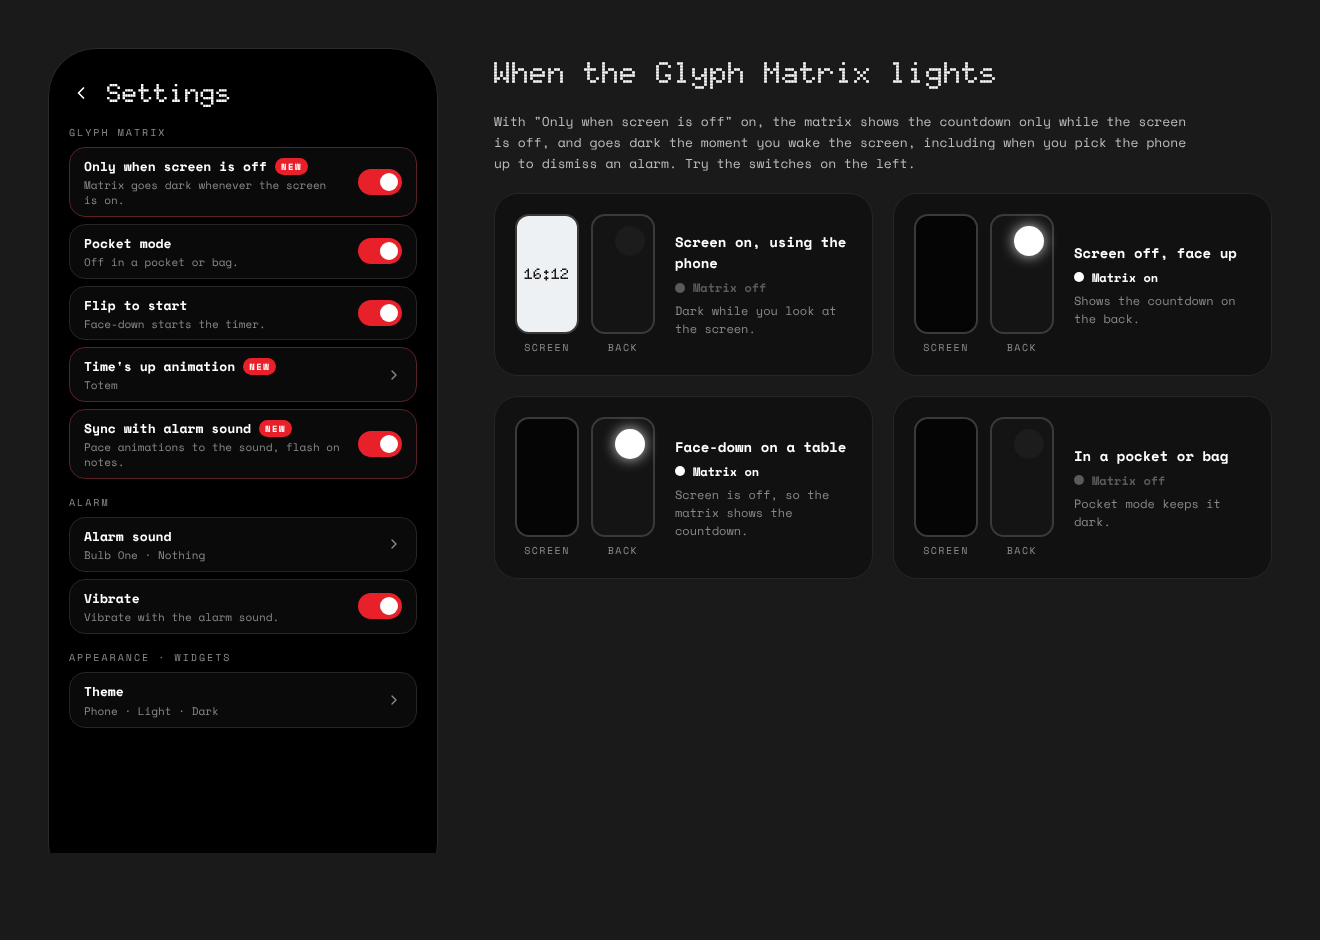
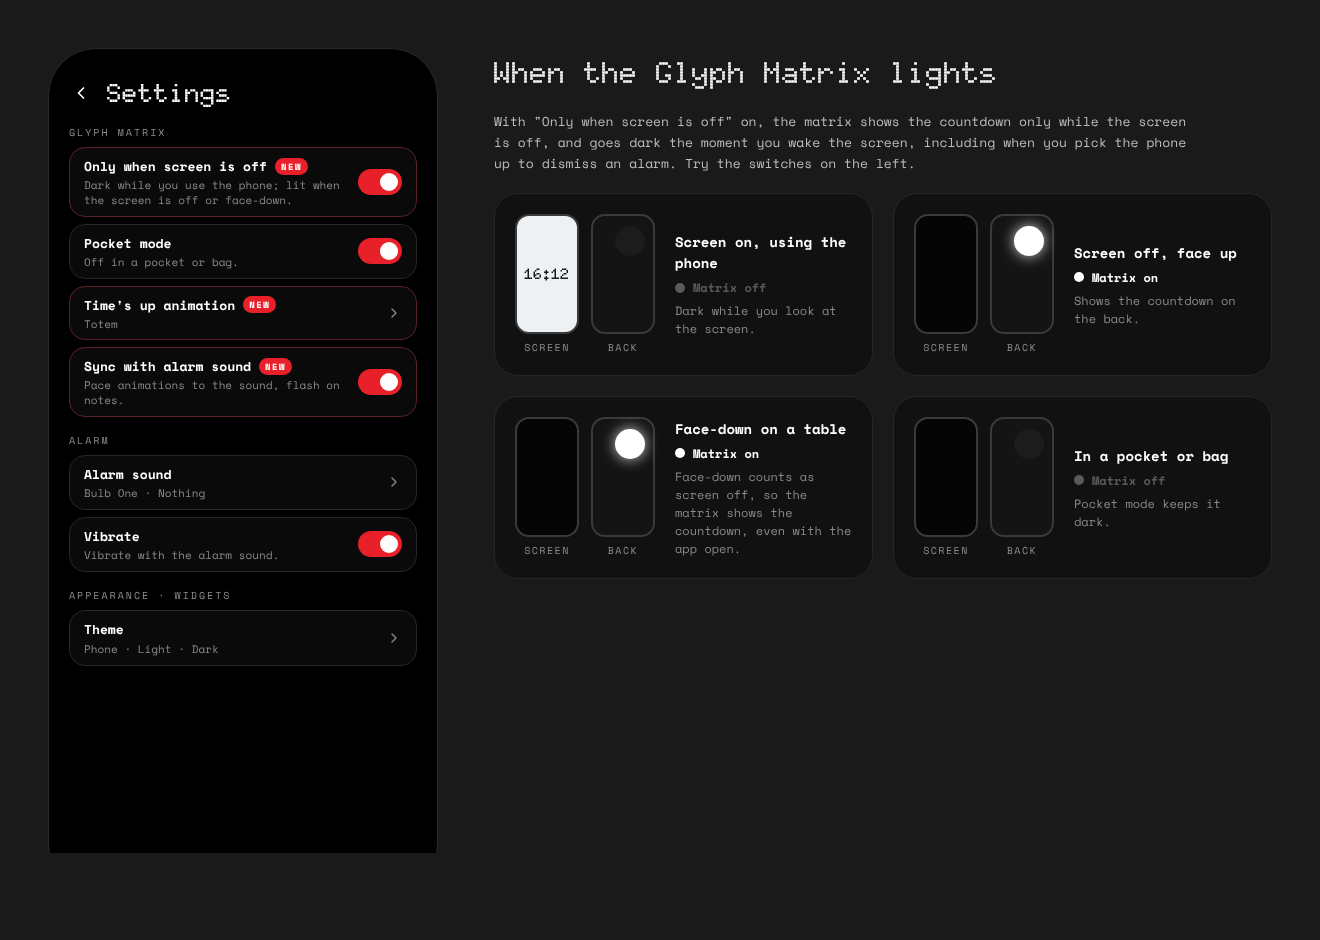
Glyph Countdown 1.2: fix flip to start, blinking sound sync
- Face-down counts as screen off, so "Only when screen is off" no longer
  hides the countdown after flip to start with the app open
- Flip to start is always on again (setting removed)
- Synced animations step through brightness levels on each note: flash,
  two dimmer steps, a dark gap before the next note, varying peaks
- versionCode 3, versionName 1.2; README images, blink GIF, release notes

Claude-Session: https://claude.ai/code/session_01KsCjPjN7msvXaRxsW5Af71

diff --git a/app/src/com/glyphcountdown/app/TimerService.java b/app/src/com/glyphcountdown/app/TimerService.java
@@ -95,8 +95,10 @@ public class TimerService extends Service {
                 near = e.values[0] < Math.min(max, 5f);
             } else {
                 float x = e.values[0], y = e.values[1], z = e.values[2];
-                flatFaceDown = z < -8.5f && Math.abs(x) < 2.5f && Math.abs(y) < 2.5f;
+                boolean fd = z < -8.5f && Math.abs(x) < 2.5f && Math.abs(y) < 2.5f;
+                if (fd != flatFaceDown) { flatFaceDown = fd; pushMatrix(); }
             }
+            if (!Prefs.get(TimerService.this, Prefs.POCKET)) return;
             boolean want = near && !flatFaceDown;
             if (want && !pocketed) {
                 handler.removeCallbacks(enterPocket);
@@ -110,14 +112,15 @@ public class TimerService extends Service {
     };
 
     private void startPocketSensors() {
-        if (sensorsOn || !Prefs.get(this, Prefs.POCKET)) return;
+        if (sensorsOn) return;
         sensors = getSystemService(SensorManager.class);
         Sensor prox = sensors.getDefaultSensor(Sensor.TYPE_PROXIMITY);
         Sensor grav = sensors.getDefaultSensor(Sensor.TYPE_GRAVITY);
         if (grav == null) grav = sensors.getDefaultSensor(Sensor.TYPE_ACCELEROMETER);
-        if (prox == null) return;
-        sensors.registerListener(pocketListener, prox, SensorManager.SENSOR_DELAY_NORMAL);
+        // orientation is always tracked (face-down shows the matrix); proximity only for pocket mode
         if (grav != null) sensors.registerListener(pocketListener, grav, SensorManager.SENSOR_DELAY_NORMAL);
+        if (prox != null && Prefs.get(this, Prefs.POCKET))
+            sensors.registerListener(pocketListener, prox, SensorManager.SENSOR_DELAY_NORMAL);
         sensorsOn = true;
     }
 
@@ -126,6 +129,7 @@ public class TimerService extends Service {
         if (sensorsOn && sensors != null) sensors.unregisterListener(pocketListener);
         sensorsOn = false;
         near = false;
+        flatFaceDown = false;
         pocketed = false;
     }
 
@@ -338,7 +342,9 @@ public class TimerService extends Service {
 
     private int[] matrixFrame() {
         int n = matrixSize;
-        if (pocketed || (screenOn && Prefs.get(this, Prefs.SCREEN_OFF_ONLY))) return new int[n * n];
+        // face-down on a table counts as screen off: nobody can see the screen (flip to start)
+        boolean hidden = screenOn && !flatFaceDown && Prefs.get(this, Prefs.SCREEN_OFF_ONLY);
+        if (pocketed || hidden) return new int[n * n];
         if (st.mode == TimerState.DONE && !MorphEngine.DEFAULT.equals(anim)) return animFrame(n);
         return MatrixRenderer.render(st, n);
     }
@@ -365,8 +371,12 @@ public class TimerService extends Service {
         }
         if (phase < 0) phase = ((SystemClock.elapsedRealtime() - doneAt) % (long) natural) / natural;
         int[] bits = MorphEngine.frame(anim, n, phase);
-        int lit = sync ? (int) (2600 + (4095 - 2600) * accent) : 4095;
-        int spark = (int) (4095 * accent);
+        int lit = 4095, spark = 0;
+        if (sync) {
+            int pos = Math.max(0, lastPos);
+            lit = (int) Math.round(4095 * SoundSync.level(prof.onsetsMs, pos, prof.lengthMs));
+            spark = lit;
+        }
         int[] px = new int[n * n];
         for (int r = 0; r < n; r++) {
             for (int c = 0; c < n; c++) {

diff --git a/app/src/com/glyphcountdown/app/SoundSync.java b/app/src/com/glyphcountdown/app/SoundSync.java
@@ -74,6 +74,29 @@ final class SoundSync {
         return best;
     }
 
+    private static final double[] PEAKS = {1.0, 0.7, 0.9, 0.55};
+    private static final double FLOOR = 0.2, GAP = 0.04;
+
+    /**
+     * Brightness 0..1 at {@code posMs} into one play of the sound, stepping through dimness
+     * levels so the matrix blinks with the notes: a short dark gap just before each note, a flash
+     * at that note's peak (peaks vary from note to note), then two dimmer steps down to a low glow.
+     */
+    static double level(long[] onsets, long posMs, long lengthMs) {
+        if (onsets.length == 0) return 1;
+        int i = -1;
+        for (int k = 0; k < onsets.length && onsets[k] <= posMs; k++) i = k;
+        long next = i + 1 < onsets.length ? onsets[i + 1] : onsets[0] + lengthMs;
+        long dt = i >= 0 ? posMs - onsets[i] : Long.MAX_VALUE;
+        if (dt >= 80 && next - posMs <= 70) return GAP;
+        if (i < 0) return FLOOR;
+        double peak = PEAKS[i % PEAKS.length];
+        if (dt < 80) return peak;
+        if (dt < 160) return peak * 0.6;
+        if (dt < 260) return peak * 0.35;
+        return FLOOR;
+    }
+
     /** Note starts from a 10 ms loudness envelope: a sharp rise well above the recent level. */
     static long[] onsets(float[] env) {
         float max = 0;

diff --git a/app/src/com/glyphcountdown/app/MainActivity.java b/app/src/com/glyphcountdown/app/MainActivity.java
@@ -277,7 +277,7 @@ public class MainActivity extends Activity implements TimerState.Listener, DialV
         boolean done = mode == TimerState.DONE;
         primary.setBackground(pill(done ? RED : WHITE, 0));
         primary.setTextColor(done ? 0xFFFFFFFF : BLACK);
-        hint.setVisibility(setting && Prefs.get(this, Prefs.FLIP) ? View.VISIBLE : View.INVISIBLE);
+        hint.setVisibility(setting ? View.VISIBLE : View.INVISIBLE);
         String src = Sounds.selectedSource(this);
         String srcLabel = Sounds.SRC_NOTHING.equals(src) ? "Nothing" : "Alarm";
         android.text.SpannableString sv = new android.text.SpannableString(Sounds.selectedName(this) + "  · " + srcLabel);
@@ -318,7 +318,6 @@ public class MainActivity extends Activity implements TimerState.Listener, DialV
 
     @Override
     public void onSensorChanged(SensorEvent e) {
-        if (!Prefs.get(this, Prefs.FLIP)) { faceDownSince = 0; return; }
         float x = e.values[0], y = e.values[1], z = e.values[2];
         boolean faceDown = z < -8.5f && Math.abs(x) < 2.5f && Math.abs(y) < 2.5f;
         if (!faceDown || st.mode != TimerState.SET || st.setSeconds() <= 0) {

diff --git a/app/src/com/glyphcountdown/app/SettingsActivity.java b/app/src/com/glyphcountdown/app/SettingsActivity.java
@@ -114,11 +114,9 @@ public class SettingsActivity extends Activity {
 
         section(col, "GLYPH MATRIX");
         col.addView(toggle(Prefs.SCREEN_OFF_ONLY, "Only when screen is off",
-                "The matrix goes dark whenever the screen is on, and lights again when it turns off."), rowLp());
+                "The matrix goes dark while you're using the phone, and lights when the screen is off or the phone is face-down."), rowLp());
         col.addView(toggle(Prefs.POCKET, "Pocket mode",
                 "Turns the Glyph Matrix off while the phone is in a pocket or bag. Face-down on a table still shows it."), rowLp());
-        col.addView(toggle(Prefs.FLIP, "Flip to start",
-                "Place the phone face-down to start the timer (app open)."), rowLp());
         LinearLayout anim = card();
         anim.setGravity(Gravity.CENTER_VERTICAL);
         anim.setClickable(true);

diff --git a/app/src/com/glyphcountdown/app/Prefs.java b/app/src/com/glyphcountdown/app/Prefs.java
@@ -5,7 +5,7 @@ import android.content.SharedPreferences;
 
 /** On/off settings from the Settings screen. */
 final class Prefs {
-    static final String POCKET = "pocket_mode", FLIP = "flip_to_start", TRANSLUCENT = "widget_translucent",
+    static final String POCKET = "pocket_mode", TRANSLUCENT = "widget_translucent",
             VIBRATE = "alarm_vibrate", SCREEN_OFF_ONLY = "matrix_screen_off_only", SYNC = "anim_sync";
     private static final String ANIM = "times_up_animation";
 

diff --git a/README.md b/README.md
@@ -21,9 +21,12 @@ face-down to start, and watch the countdown on the back.
 <p align="center"><em>Settings › Time's up animation, with live previews</em></p>
 
 <p align="center"><img src="docs/design/sound-sync.png" width="820" alt="Sound sync screen: the Sync with alarm sound switch, the Nothing and Alarms sound lists, a waveform with note markers, and each animation's loop length as whole repeats of the sound"></p>
-<p align="center"><em>Sound sync: each loop lines up with whole repeats of the alarm sound and flashes on every note</em></p>
+<p align="center"><em>Sound sync: each loop lines up with whole repeats of the alarm sound</em></p>
 
-<p align="center"><img src="docs/design/settings-screen-off.png" width="820" alt="Settings with Only when screen is off, Pocket mode, Flip to start, Time's up animation and Sync with alarm sound, beside four cases showing when the Glyph Matrix lights"></p>
+<p align="center"><img src="docs/design/sound-sync-blink.gif" width="680" alt="Totem, Knot and Kaleido animations blinking in time with a three-note sound: a full-brightness flash on each note, stepping down through dimmer levels, then a brief dark gap before the next note"></p>
+<p align="center"><em>With sync on, the matrix blinks through brightness levels on every note (drawn by the app's own code)</em></p>
+
+<p align="center"><img src="docs/design/settings-screen-off.png" width="820" alt="Settings with Only when screen is off, Pocket mode, Time's up animation and Sync with alarm sound, beside four cases showing when the Glyph Matrix lights"></p>
 <p align="center"><em>Only when screen is off: the matrix goes dark while you're using the phone</em></p>
 
 <p align="center"><img src="docs/design/alarm-sound-picker.png" width="640" alt="Timer screen with the alarm sound row, and the alarm sound picker with Nothing and Alarms tabs"></p>
@@ -51,7 +54,7 @@ on a Nothing phone the app itself uses Nothing's NDot font, which can't be inclu
   tapping the digits, then drag the dot round the tick ring, with a light haptic tick at each step.
   Up to 23 h 59 min 59 s.
 - **Remembers your last time**, ready for next time (and for the widgets).
-- **Flip to start**: with the app open, place the phone face-down to start.
+- **Flip to start**: with the app open, place the phone face-down to start. Always on.
 - **Keeps running with the app closed**: a notification shows a live countdown with
   Pause / Resume / Reset buttons.
 - **TalkBack**: the dial announces the time and can be adjusted by swiping up or down.
@@ -67,10 +70,12 @@ on a Nothing phone the app itself uses Nothing's NDot font, which can't be inclu
   (folds up like origami and opens out again), Lattice, Moiré, Weave, Glyph and Knot. Each
   has a live preview, and all of them work on both matrix sizes.
 - **Sync with alarm sound**: the animation is paced to your alarm sound so each loop starts
-  with it, and it flashes, with sparks round the edge, on every note. Works with all the
-  Nothing and alarm sounds; can be switched off.
-- **Only when screen is off**: the matrix goes dark while the screen is on and lights again
-  when it turns off (on by default; switch it off to keep the matrix lit all the time).
+  with it, and it blinks with every note: a full-brightness flash with sparks round the edge,
+  then dimmer steps, then a brief dark gap before the next note. Notes flash at different
+  strengths. Works with all the Nothing and alarm sounds; can be switched off.
+- **Only when screen is off**: the matrix goes dark while you're using the phone and lights
+  when the screen is off. Face-down counts as off, so flip to start shows the countdown
+  even with the app open. On by default; switch it off to keep the matrix lit all the time.
 - **Pocket mode**: the matrix turns off while the phone is in a pocket or bag and comes back
   when you take it out. Face-down on a table still shows it.
 
@@ -103,7 +108,7 @@ Tap the gear on the timer screen:
 | Section | Options |
 |---|---|
 | Appearance | Theme: Phone, Light or Dark |
-| Glyph Matrix | Only when screen is off · Pocket mode · Flip to start · Time's up animation · Sync with alarm sound |
+| Glyph Matrix | Only when screen is off · Pocket mode · Time's up animation · Sync with alarm sound |
 | Widgets | Translucent background |
 | Alarm | Alarm sound · Vibrate |
 
@@ -165,7 +170,7 @@ Releases are built and signed by GitHub Actions, never on a personal machine:
   release notes come from `docs/release-notes/<tag>.md`.
 
 To release: bump `versionCode` and `versionName` in `app/AndroidManifest.xml`, add the notes
-file, commit, then `git tag v1.2 && git push origin v1.2`.
+file, commit, then `git tag v1.3 && git push origin v1.3`.
 
 ### Project layout
 

diff --git a/docs/release-notes/v1.2.md b/docs/release-notes/v1.2.md
@@ -1,0 +1,13 @@
+Flip to start works again, and synced animations now blink with your alarm sound.
+
+### Fixed
+- **Flip to start**: placing the phone face-down with the app open started the timer, but the new "Only when screen is off" setting kept the Glyph Matrix dark because the screen was still on. Face-down now counts as screen off, so the countdown appears on the back straight away.
+
+### Changed
+- **Flip to start is always on**, as it was originally, and is no longer a setting.
+- **Sync with alarm sound blinks**: instead of a steady glow, the matrix now steps through brightness levels with each note: a full flash with sparks around the edge, two dimmer steps, then a brief dark gap just before the next note. Successive notes flash at different strengths, so it reads as blinking in rhythm with the sound.
+
+### Install
+Download the APK below and open it on your phone; it installs over 1.0 or 1.1 and keeps your settings. Requires Android 13+.
+
+Built and signed by GitHub Actions from the tagged commit. Unofficial app, not affiliated with Nothing. Provided as-is under the MIT licence.
